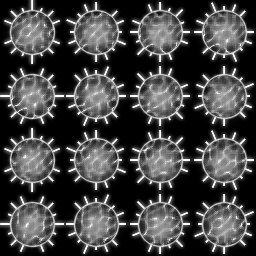
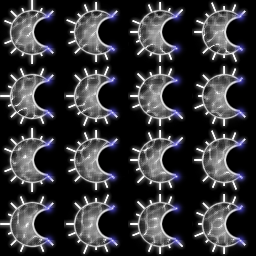
update artwork add spawn particles to player

diff --git a/pseuthe/src/ParticleFactory.cpp b/pseuthe/src/ParticleFactory.cpp
@@ -45,6 +45,36 @@ namespace
         { 7.f, -11.f },
         { 10.f, -15.f }
     };
+
+    std::vector<sf::Vector2f> sparkVelocities/* =
+    {
+        { -180.5f, 0.f },
+        { -120.f, -88.9f },
+        { -40.f, -124.f },
+        { 0.f, -120.5f },
+        { 48.5f, -64.6f },
+        { 124.f, -88.5f },
+        { 160.9f, 0.f },
+        { 124.f, 9.5f },
+        { 48.f, 27.5f },
+        { 0.7f, 40.4f },
+        { -40.f, 29.6f },
+        { -120.f, 9.5f }
+    }*/;
+
+    std::vector<sf::Vector2f> createPoints(const sf::Vector2f& centre, int pointCount, float radius)
+    {
+        std::vector<sf::Vector2f> retVal;
+        float increment = TAU / static_cast<float>(pointCount);
+
+        for (float angle = 0.f; angle <= TAU; angle += increment)
+        {
+            retVal.emplace_back(centre.x + radius * std::cos(angle), centre.y + radius * std::sin(angle));
+            retVal.back() *= Util::Random::value(0.5f, 1.1f);
+        }
+
+        return retVal;
+    }
 }
 
 ParticleSystem::Ptr ParticleSystem::create(Particle::Type type, MessageBus& mb)
@@ -80,6 +110,27 @@ ParticleSystem::Ptr ParticleSystem::create(Particle::Type type, MessageBus& mb)
         ps->followParent(true);
     }
         break;
+
+    case Particle::Type::Sparkle:
+    {
+        sparkVelocities = createPoints(sf::Vector2f(), 20, 180.f);
+
+        ps->setParticleLifetime(0.3f);
+        ps->setParticleSize({ 10.f, 10.f });
+        ps->setRandomInitialVelocity(sparkVelocities);
+        ps->setBlendMode(sf::BlendAdd);
+        //ps->setEmitRate(4.f);
+        
+        ForceAffector fa({ 0.f, 20.f });
+        ps->addAffector(fa);
+
+        ScaleAffector sa({ 2.f, 2.f });
+        ps->addAffector(sa);
+
+        RotateAffector ra(140.f);
+        ps->addAffector(ra);
+}
+    break;
     default: break;
     }
 

diff --git a/pseuthe/src/GameController.cpp b/pseuthe/src/GameController.cpp
@@ -96,7 +96,7 @@ void GameController::handleMessage(const Message& msg)
 namespace
 {
     const float partScale = 0.9f;
-    const float partPadding = 6.f;
+    const float partPadding = 1.f;
     const float playerSize = 32.f;
     const sf::Vector2f spawnPosition(960.f, 540.f);
 }
@@ -126,6 +126,12 @@ void GameController::spawnPlayer()
     trailComponent->setName("trail");
     entity->addComponent<ParticleSystem>(trailComponent);
 
+    auto sparkle = ParticleSystem::create(Particle::Type::Sparkle, m_messageBus);
+    sparkle->setTexture(m_appInstance.getTexture("assets/images/particles/spark.png"));
+    sparkle->setName("sparkle");
+    sparkle->start(1u, 0.f, 0.5f);
+    entity->addComponent<ParticleSystem>(sparkle);
+
     auto controlComponent = std::make_unique<InputComponent>(m_messageBus);
     entity->addComponent<InputComponent>(controlComponent);
 
@@ -153,6 +159,12 @@ void GameController::spawnPlayer()
         physComponent->setName("control");
         lastPhysComponent = physComponent.get();
         bodyPart->addComponent<PhysicsComponent>(physComponent);
+
+        auto sparkle = ParticleSystem::create(Particle::Type::Sparkle, m_messageBus);
+        sparkle->setTexture(m_appInstance.getTexture("assets/images/particles/spark.png"));
+        sparkle->setName("sparkle");
+        sparkle->start(1u, 0.f, 0.5f);
+        bodyPart->addComponent<ParticleSystem>(sparkle);
 
         auto bpCont = std::make_unique<BodypartController>(m_messageBus);
         bodyPart->addComponent<BodypartController>(bpCont);

diff --git a/pseuthe/src/InputComponent.cpp b/pseuthe/src/InputComponent.cpp
@@ -49,7 +49,7 @@ namespace
 
     const float maxHealth = 100.f;
     const float healthReduction = 4.f; //reduction per second
-    const sf::Color defaultColour(150u, 150u, 255u);
+    const sf::Color defaultColour(190u, 190u, 255u);
 
     const float minTrailRate = 1.f;
     const float maxTrailRate = 50.f;

diff --git a/pseuthe/src/GameState.cpp b/pseuthe/src/GameState.cpp
@@ -45,7 +45,7 @@ source distribution.
 namespace
 {
     const int nubbinCount = 19;
-    const std::string version("version 0.5.6");
+    const std::string version("version 0.5.7");
 }
 
 GameState::GameState(StateStack& stateStack, Context context)

diff --git a/pseuthe/include/Particle.hpp b/pseuthe/include/Particle.hpp
@@ -37,7 +37,8 @@ struct Particle final : public sf::Transformable
     enum class Type
     {
         Trail,
-        Echo
+        Echo,
+        Sparkle
     };
 
     sf::Vector2f velocity;
